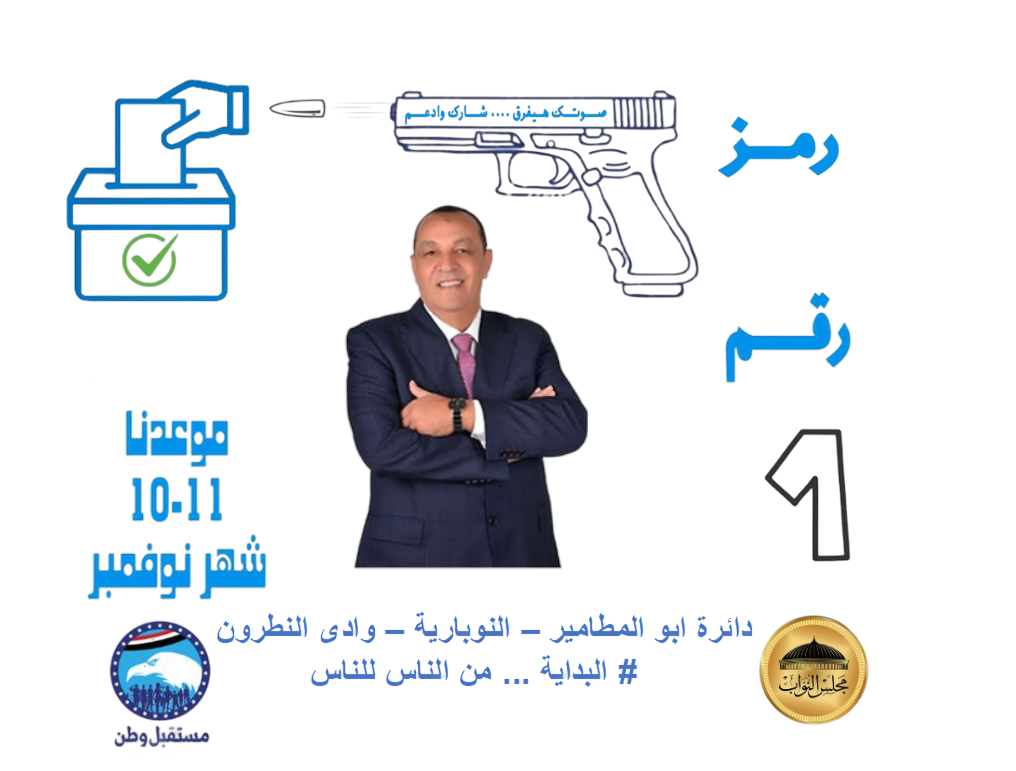
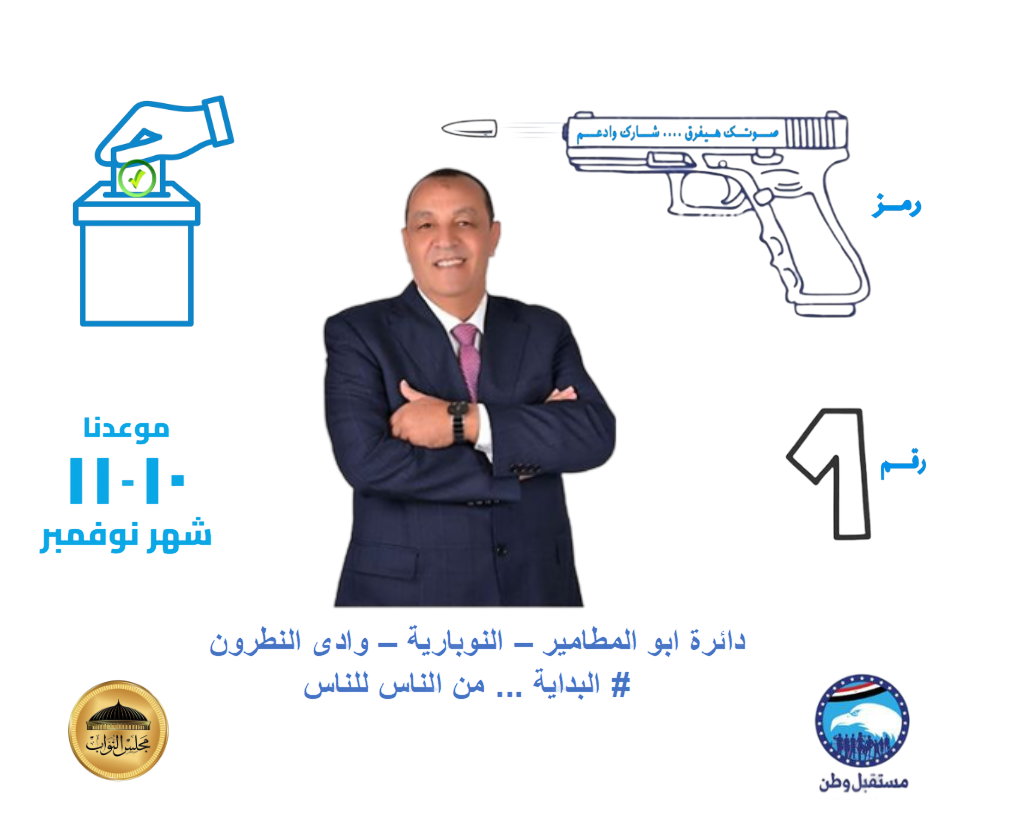
khaled_sakr Last Edit App_2 12:33 AM

diff --git a/index.html b/index.html
@@ -616,10 +616,10 @@
         ctx.drawImage(bg, 0, 0, finalCanvas.width, finalCanvas.height);
 
         // موضع الصورة على الكارت
-        const rectWidth = 180;   // عرض الصورة داخل الكارت
-        const rectHeight = 180;  // ارتفاع الصورة
-        const rectX = 71;        // المسافة من يسار الكارت (اضبط إذا لزم الأمر)
-        const rectY = 220;       // المسافة من أعلى الكارت (اضبط لتطابق الصندوق بالضبط)
+        const rectWidth = 120;   // عرض الصورة داخل الكارت
+        const rectHeight = 170;  // ارتفاع الصورة
+        const rectX = 80;        // المسافة من يسار الكارت (اضبط إذا لزم الأمر)
+        const rectY = 360;       // المسافة من أعلى الكارت (اضبط لتطابق الصندوق بالضبط)
 
         // رسم مستطيل الصورة
         ctx.save();
